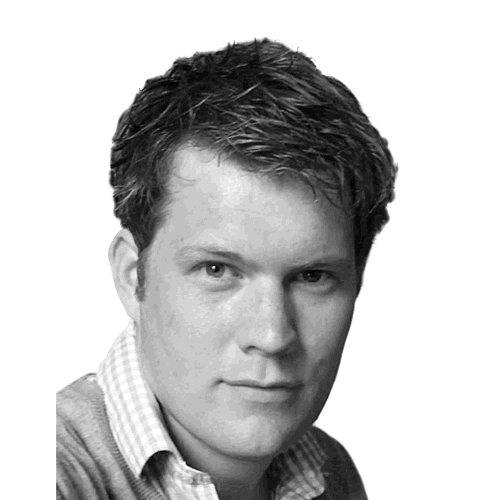
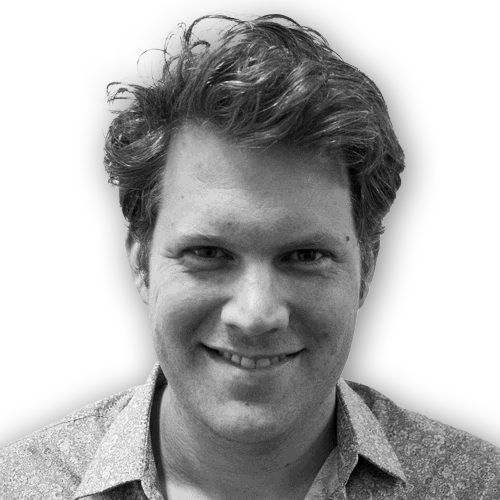
style people-page links, update John's mugshot, fix colors on person spotlight

diff --git a/views/stylesheets/_application.scss b/views/stylesheets/_application.scss
@@ -866,21 +866,35 @@ footer #map{
 }
 
 .person-link{
-  font-family: 'pc_social';
-  color: hsl(40, 70%, 98.5%);
-  font-size: 1.6em;
-  line-height: 1.7em;
-  margin-right: .2em;
-  width: 1.7em;
-  text-align: center;
-  display: inline-block;
-  @include border-radius(.2em);
+  line-height: 3.2;
+  color: hsl(0, 0%, 50%);
+  padding: .3em .4em;
+  margin: 0 .5em .8em 0;
+  cursor: pointer;
 
   &:hover{
-    color: hsl(40, 70%, 98.5%);
     text-decoration: none;
+    background-color: #EFEFEF;
+  }
+
+  &:after{
+    font-family: 'pc_social';
+    margin-left: .5em;
   }
 }
+
+.website:after{
+  content: "W";
+}
+
+.twitter:after{
+  content: "T";
+}
+
+.github:after{
+  content: "G";
+}
+
 
 
 /* @end */

diff --git a/public/javascripts/app/shared/random-colors.js b/public/javascripts/app/shared/random-colors.js
@@ -47,10 +47,10 @@ require([
     $(".img",obj).addClass(randColor + "-background");
 
     // Color spotlight person row the same
-    var personIndex = $(obj).parent().prevAll().length -1;
+    var personIndex = $(obj).parent().prevAll().length;
     var spotlightPerson = $("#spotlight .person-row")[personIndex];
     $(spotlightPerson).find("h2, h3").addClass(randColor);
-    $(spotlightPerson).find(".img, .person-link").addClass(randColor + "-background");
+    $(spotlightPerson).find(".img").addClass(randColor + "-background");
   });
 
 });

diff --git a/public/javascripts/app/people.js b/public/javascripts/app/people.js
@@ -12,7 +12,7 @@ require([
     var personLink = $(clickTarget).is("a") ? clickTarget : $(clickTarget).parents("a").first();
     $("#spotlight .person-row").removeClass("active");
 
-    var personIndex = $(personLink).parent().prevAll().length - 1;
+    var personIndex = $(personLink).parent().prevAll().length;
     var personRow = $("#spotlight .person-row")[personIndex];
     $(personRow).addClass("active");
 
